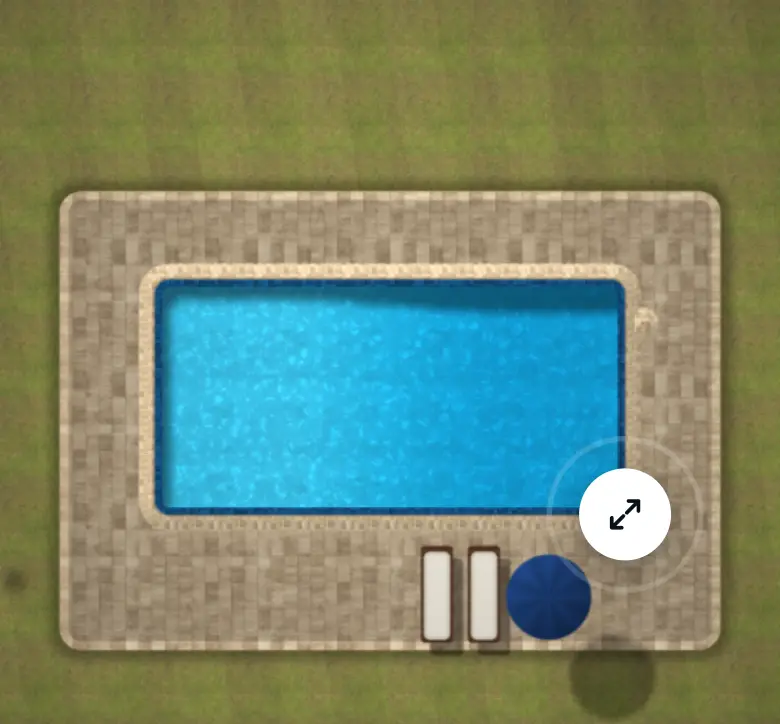
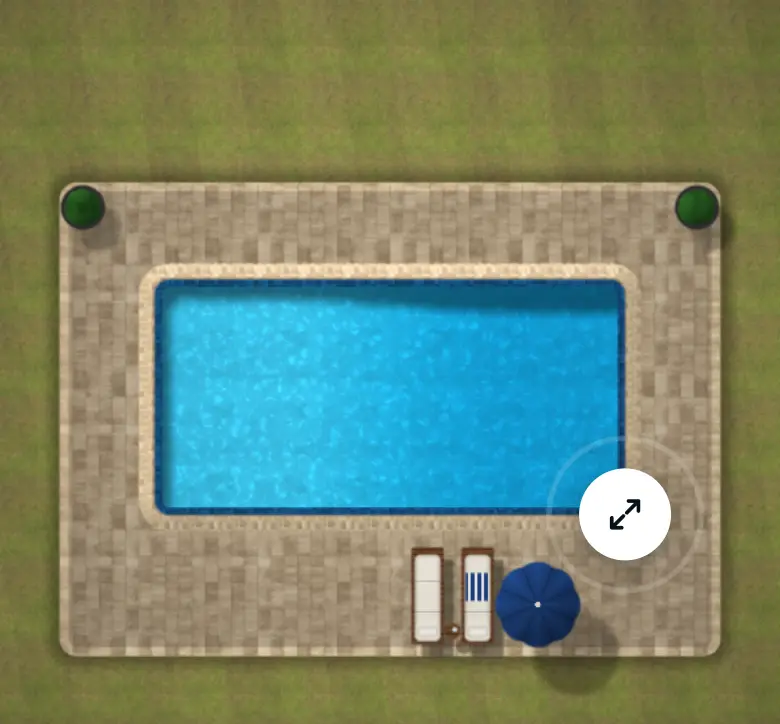
Hero cleanup: deck, spa, furniture; centered dividers

diff --git a/yard.js b/yard.js
@@ -21,19 +21,37 @@ float shapeD(vec2 p, float id){
   if (id < 3.5) return sdBox(p, vec2(L, W) * .5, 1.6);
   return sdBox(p, vec2(L, W) * .5, .45);
 }
-vec2 spaC(){ return vec2(uL * .5 + 1.2, uW * .5 - 3.); }
+vec2 spaPos(float id){ return id > .5 && id < 1.5 ? vec2(uL * .52 + 4.5, uW * .06) : vec2(uL * .5 + 4.5, max(uW * .5 - 3.7, 0.)); }
+vec2 spaC(){ return mix(spaPos(uSA), spaPos(uSB), uM); }
 float poolD(vec2 p){ float d = shapeD(p, uSB); if (uM < .999) d = mix(shapeD(p, uSA), d, uM); return d; }
-float spaD(vec2 p){ return length(p - spaC()) - 3.4 * uSpa + .02; }
+float spaD(vec2 p){ return length(p - spaC()) - 3.2 * uSpa + .02 + (1. - smoothstep(0., .25, uSpa)) * 6.; }
 float allD(vec2 p){ return min(poolD(p), spaD(p)); }
 float wallD(vec2 p){ return sdBox(p - vec2(0., uW * .5 + 2.4), vec2(uL * .38, .85), .1) + (1. - uWall) * 1.2; }
-vec2 fireC(){ return vec2(-uL * .5 - 9.5, -uW * .5 - 4.5); }
-float chairD(vec2 p, out float cush){
-  float d = 1e3; cush = 1e3;
-  for (int i = 0; i < 2; i++) { vec2 q = p - vec2(uL * .1 + float(i) * 3.2, -uW * .5 - 5.4);
-    d = min(d, sdBox(q, vec2(1.1, 3.3), .3)); cush = min(cush, sdBox(q - vec2(0., -.1), vec2(.9, 3.), .45)); }
+vec2 fireC(){ return vec2(-uL * .5 - 11., -uW * .5 - 2.2); }
+float deckD(vec2 p){ float x0 = -uL * .5 - 6.5 - 11.5 * uFire, x1 = uL * .5 + 6.5 + 5.5 * uSpa, y0 = -uW * .5 - 9.6, y1 = uW * .5 + 6.6;
+  return sdBox(p - vec2(x0 + x1, y0 + y1) * .5, vec2(x1 - x0, y1 - y0) * .5, 1.2); }
+mat2 rot(float a){ float c = cos(a), s = sin(a); return mat2(c, -s, s, c); }
+// Adirondack chairs round the fire pit; back = fanned slats, seat, two flat arms
+float adiD(vec2 p, out float slat){
+  float d = 1e3; slat = 0.;
+  for (int i = 0; i < 3; i++) { float a = 1.35 + float(i) * 1.75; vec2 c = fireC() + vec2(cos(a), sin(a)) * 4.;
+    vec2 q = rot(-a + 1.5708) * (p - c);                       // +y points at the fire
+    float seat = sdBox(q, vec2(.95, .85), .15);
+    float arms = min(sdBox(q - vec2(-1.12, .1), vec2(.2, 1.15), .1), sdBox(q - vec2(1.12, .1), vec2(.2, 1.15), .1));
+    float back = max(sdBox(q - vec2(0., -1.45), vec2(1.1, .62), .3), abs(q.x) - (.95 + (-.85 - q.y) * .35));
+    float di = min(min(seat, arms), back); if (di < d) { d = di; slat = step(.5, fract(q.x * 2.6 + .25)) * step(q.y, -.8); } }
   return d;
 }
-vec2 umbC(){ return vec2(uL * .1 + 7.6, -uW * .5 - 5.6); }
+vec2 loungeC(float i){ return vec2(uL * .08 + i * 3.4, -uW * .5 - 5.5); }
+float chairD(vec2 p, out float cush){
+  float d = 1e3; cush = 1e3;
+  for (int i = 0; i < 2; i++) { vec2 q = p - loungeC(float(i));
+    d = min(d, sdBox(q, vec2(1.1, 3.3), .22)); cush = min(cush, sdBox(q - vec2(0., -.15), vec2(.88, 2.95), .4)); }
+  return d;
+}
+vec2 tableC(){ return loungeC(0.) + vec2(1.7, -2.4); }
+vec2 umbC(){ return loungeC(1.) + vec2(4.1, -.6); }
+vec2 potC(float i){ return i < .5 ? vec2(-uL * .5 - 4.9 - 11.5 * uFire, uW * .5 + 4.9) : vec2(uL * .5 + 4.9 + 5.5 * uSpa, uW * .5 + 4.9); }
 float h21(vec2 p){ return fract(sin(dot(p, vec2(127.1, 311.7))) * 43758.5453); }
 float vn(vec2 p){ vec2 i = floor(p), f = fract(p); f = f * f * (3. - 2. * f);
   return mix(mix(h21(i), h21(i + vec2(1, 0)), f.x), mix(h21(i + vec2(0, 1)), h21(i + vec2(1, 1)), f.x), f.y); }
@@ -62,9 +80,8 @@ void main(){
   grass *= .9 + .2 * fbm(p * .06) + .045 * step(.5, fract((p.x + p.y * .15) / 7.));
   vec3 col = grass;
   float d = allD(p);
-  // deck: a paver rectangle round the pool, plus a round fire-pit patio
-  float dDeck = min(sdBox(p - vec2(0., -1.6), vec2(uL * .5 + 6.5, uW * .5 + 7.6), 1.5), d - 5.);
-  dDeck = smin(dDeck, length(p - fireC()) - 6.2 * uFire + .02, 1.6);
+  // deck: one clean paver rectangle that grows to take the spa and the fire pit
+  float dDeck = deckD(p);
   vec3 pave = mix(deckCol(p, floor(uDeck)), deckCol(p, ceil(uDeck)), fract(uDeck));
   pave *= mix(.8, 1., smoothstep(-.7, -.5, dDeck));                    // soldier course edge
   col *= 1. - .3 * smoothstep(1.4, 0., dDeck) * step(0., dDeck);        // lawn contact shadow
@@ -75,8 +92,12 @@ void main(){
   float cush; float sh = 0.;
   sh = max(sh, smoothstep(fw * 3., -fw * 3., wallD(p + TL * 3.4)) * uWall);
   sh = max(sh, smoothstep(.15, -.15, chairD(p + TL * 1.1, cush)) * .8);
-  sh = max(sh, smoothstep(.4, -.4, length(p + TL * 7. - umbC()) - 2.9) * .7);
+  sh = max(sh, smoothstep(.4, -.4, length(p + TL * 4.2 - umbC()) - 2.9) * .55);
   sh = max(sh, smoothstep(.2, -.2, length(p + TL * .8 - fireC()) - 2.35) * uFire * .7);
+  float slat; if (uFire > .01) sh = max(sh, smoothstep(.15, -.15, adiD(p + TL * 1.2, slat)) * .75 * uFire);
+  sh = max(sh, smoothstep(.15, -.15, length(p + TL * 1.3 - tableC()) - .55) * .7);
+  for (int i = 0; i < 2; i++) sh = max(sh, smoothstep(.4, -.4, length(p + TL * 1.8 - potC(float(i))) - 1.5) * .6);
+  if (uSpa > .01) sh = max(sh, smoothstep(.2, -.2, spaD(p + TL * 1.1) - .55) * (1. - smoothstep(-.1, .1, -spaD(p) + .55)) * .5);
   col *= 1. - .48 * sh * day;
   // raised stone wall with three bronze scuppers
   float dw = wallD(p);
@@ -91,10 +112,31 @@ void main(){
     float bed = fr - 1.5 * uFire; vec3 rock = vec3(.09, .08, .075) * (.6 + .8 * vn(fq * 4.));
     ember = smoothstep(1.2, .2, fr) * smoothstep(.45, .8, vn(fq * 3. + vec2(0., -t * 1.6))) * (.35 + .65 * vn(vec2(t * 3., fr)));
     col = mix(col, rock, smoothstep(fw, -fw, bed)); }
-  // loungers
+  // loungers: teak frame with slats, cushion with seams, pillow, one with a striped towel
   float dc = chairD(p, cush);
-  col = mix(col, vec3(.36, .22, .14) * (.85 + .15 * step(.5, fract(p.y * 2.4))), smoothstep(fw, -fw, dc));
-  col = mix(col, vec3(.93, .91, .86) * (1. - .12 * smoothstep(-.4, 0., cush)), smoothstep(fw, -fw, cush));
+  vec3 teak = vec3(.42, .26, .15) * (.78 + .22 * step(.32, fract(p.y * 2.6))) * (.9 + .2 * vn(p * vec2(1., 9.)));
+  col = mix(col, teak, smoothstep(fw, -fw, dc));
+  for (int i = 0; i < 2; i++) { vec2 q = p - loungeC(float(i));
+    float seam = smoothstep(.05, 0., abs(q.y + 1.1)) + smoothstep(.05, 0., abs(q.y - 1.)) ;
+    float raised = smoothstep(-1.2, -2.9, q.y);                               // backrest tilted up to the sun
+    vec3 cu = vec3(.94, .92, .87) * (1. - .14 * smoothstep(-.35, 0., cush)) * (1. - .2 * seam) * (1. + .08 * raised);
+    if (i == 1) { float tw = sdBox(q - vec2(0., .6), vec2(.82, .95), .05); cu = mix(cu, mix(vec3(.12, .27, .5), vec3(.95), step(.5, fract(q.x * 2.2))), smoothstep(fw, -fw, tw)); }
+    col = mix(col, cu, smoothstep(fw, -fw, cush) * step(abs(p.x - loungeC(float(i)).x), 1.5));
+    float pil = sdBox(q - vec2(0., -2.45), vec2(.72, .38), .3);
+    col = mix(col, vec3(.98, .97, .94) * (1. - .15 * smoothstep(-.25, 0., pil)), smoothstep(fw, -fw, pil)); }
+  // side table with a drink
+  float tb = length(p - tableC()) - .55;
+  col = mix(col, teak * 1.1, smoothstep(fw, -fw, tb));
+  col = mix(col, vec3(.85, .93, .95), smoothstep(fw, -fw, length(p - tableC() - vec2(.15, .1)) - .16));
+  // Adirondack chairs round the fire pit
+  if (uFire > .01) { float ad = adiD(p, slat) + (1. - uFire) * 3.;
+    col = mix(col, vec3(.95, .94, .9) * (.86 + .14 * slat), smoothstep(fw, -fw, ad)); }
+  // planters at the back corners
+  for (int i = 0; i < 2; i++) { vec2 q = p - potC(float(i)); float pr = length(q);
+    col = mix(col, vec3(.2, .2, .21) * (.85 + .3 * smoothstep(1.5, 1.2, pr)), smoothstep(fw, -fw, pr - 1.5));
+    float leaf = fbm(q * 1.6 + float(i) * 9.); float fol = pr - 1.25 - .35 * (leaf - .5);
+    vec3 lc = vec3(.13, .3, .1) * (.6 + .9 * leaf) * (1. + .35 * dot(normalize(q + .001), TL) * smoothstep(0., 1.3, pr));
+    col = mix(col, lc, smoothstep(fw, -fw, fol)); }
   // coping (travertine bullnose) round pool and spa
   vec2 g = vec2(dFdx(d), dFdy(d)); vec2 en = length(g) > 0. ? normalize(g) : vec2(0.);
   vec3 cop = texture2D(tP, p / 3.).rgb * vec3(1.13, 1.08, 1.) * (.93 + .14 * dot(en, TL) * smoothstep(.0, .5, d));
@@ -130,7 +172,13 @@ void main(){
   if (uSpa > .01) { float bub = smoothstep(.75, .95, vn((p - spaC()) * 3. + vec2(0., t * 2.))) * inSpa;
     wat = mix(wat, vec3(.85, .97, 1.), bub * .35); }
   col = mix(col, wat, smoothstep(fw, -fw, d));
-  if (uSpa > .01) col = mix(col, cop * .95, smoothstep(fw, -fw, abs(sd) - .32));
+  if (uSpa > .01) { float wallR = abs(sd - .3) - .3;                       // raised spa wall
+    vec2 sq = p - spaC(); vec3 sw = texture2D(tS, p / 2.).rgb * .9 * (.9 + .2 * dot(normalize(sq), TL));
+    col = mix(col, mix(sw, cop, smoothstep(.12, .2, abs(sd - .3))), smoothstep(fw, -fw, wallR) * step(.2, uSpa));
+    // sheet of water spilling from the spa to the pool
+    float spill = step(abs(sq.y), .75) * smoothstep(-3.05, -3.2, sq.x) * step(-4.55, sq.x) * step(.9, uSpa);
+    float st = .6 + .4 * sin(sq.x * 14. + t * 12. + sq.y * 6.);
+    col = mix(col, mix(vec3(.55, .82, .92), vec3(.95, 1., 1.), st), spill * .9); }
   // water falling from the scuppers
   if (uWall > .01) for (int i = 0; i < 3; i++) { float x = (float(i) - 1.) * uL * .22; vec2 q = p - vec2(x, uW * .5 + .2);
     float sm = smoothstep(.32, .12, abs(q.x)) * smoothstep(1.4, 1.1, q.y) * smoothstep(-1.4, -.9, q.y);
@@ -138,9 +186,12 @@ void main(){
     col = mix(col, vec3(.9, .97, 1.), sm * fl * uWall * .85);
     col = mix(col, vec3(.28, .2, .14), smoothstep(fw, -fw, sdBox(p - vec2(x, uW * .5 + 1.55), vec2(.32, .22), .05)) * uWall); }
   // umbrella canopy over the loungers
-  vec2 uq = p - umbC(); float ud = length(uq) - 2.9; float ang = atan(uq.y, uq.x);
-  float pan = abs(fract(ang * 8. / 6.2831) - .5);
-  vec3 umb = vec3(.11, .25, .48) * (.82 + .3 * pan) * (1. + .25 * dot(normalize(uq + .001), TL) * smoothstep(0., 2.9, length(uq)));
+  vec2 uq = p - umbC(); float ur = length(uq), ang = atan(uq.y, uq.x);
+  float pan = abs(fract(ang * 8. / 6.2831) - .5);                         // 0 on a rib, .5 mid-panel
+  float ud = ur - 2.9 + .18 * (1. - pan * 2.) * (1. - pan * 2.);           // canopy sags between ribs
+  vec3 umb = vec3(.11, .25, .48) * (.8 + .35 * pan) * (1. + .28 * dot(normalize(uq + .001), TL) * smoothstep(0., 2.9, ur));
+  umb = mix(umb, umb * .7, smoothstep(.04, 0., pan) * smoothstep(.3, .6, ur));
+  umb = mix(umb, vec3(.92, .9, .85), smoothstep(.22, .17, ur));
   col = mix(col, umb, smoothstep(fw, -fw, ud));
   // light: dusk tint at night, then the glows
   vec3 nightTint = vec3(.13, .17, .3);
@@ -195,13 +246,14 @@ export function mountYard(canvas, opts = {}) {
   }
   function place() {
     const a = opts.area ? opts.area() : { x: 0, y: 0, w: view.w / view.dpr, h: view.h / view.dpr }, pad = opts.pad || [34, 30];
-    const s = held ? view.s : Math.min(a.w / (.6 * cur.L + pad[0]), a.h / (.6 * cur.W + pad[1]));
-    view.s = s; view.cx = a.x + a.w / 2 + (opts.shiftX || 0) * s; view.cy = a.y + a.h / 2 - 1.5 * s;   // css px, from top-left
+    const ext = 5.5 * cur.spa + 11.5 * cur.fire;
+    const s = held ? view.s : Math.min(a.w / (.6 * cur.L + pad[0] + ext * (a.w < 600 ? 1.5 : .8)), a.h / (.6 * cur.W + pad[1]), a.w / (cur.L + 15 + ext));
+    view.s = s; view.cx = a.x + a.w / 2 - (5.5 * cur.spa - 11.5 * cur.fire) / 2 * s; view.cy = a.y + a.h / 2 - 1.5 * s;   // css px, from top-left
     if (opts.grip) opts.grip.style.transform = `translate(${view.cx + cur.L * s / 2}px,${view.cy + cur.W * s / 2}px)`;
     if (opts.labels) {
       const { L, W } = opts.labels, k = s;
       L.style.cssText = `left:${view.cx - cur.L * k / 2}px;top:${view.cy + (cur.W / 2 + 9.6) * k}px;width:${cur.L * k}px`;
-      W.style.cssText = `left:${view.cx + (cur.L / 2 + 7.4) * k}px;top:${view.cy - cur.W * k / 2}px;height:${cur.W * k}px`;
+      W.style.cssText = `left:${view.cx + (cur.L / 2 + 7.6 + 5.5 * cur.spa) * k}px;top:${view.cy - cur.W * k / 2}px;height:${cur.W * k}px`;
     }
   }
   function draw() {

diff --git a/index.html b/index.html
@@ -14,7 +14,7 @@
 <meta property="og:image" content="https://preview.localform.online/pool-doctor-preview/og.jpg">
 <link rel="icon" href="favicon.svg" type="image/svg+xml">
 <link rel="preload" href="fonts/montserrat-latin-900-normal.woff2" as="font" type="font/woff2" crossorigin>
-<link rel="stylesheet" href="styles.css?v=4">
+<link rel="stylesheet" href="styles.css?v=5">
 <script type="application/ld+json">{"@context":"https://schema.org","@type":"HomeAndConstructionBusiness","name":"The Pool Doctor","telephone":"+1-843-737-3165","email":"thepooldoc@yahoo.com","founder":{"@type":"Person","name":"Joseph Penna"},"areaServed":["Charleston, SC","Sullivan's Island, SC","Isle of Palms, SC","James Island, SC","Summerville, SC"],"openingHours":"Mo-Fr 07:00-19:00","sameAs":["https://www.instagram.com/the_pooldoctor/"]}</script>
 </head>
 <body>
@@ -70,7 +70,7 @@
 </section>
 
 <section class="doors" aria-label="What do you need?">
-  <div class="pulse" style="--a:1;--b:3" aria-hidden="true"><div class="pl"><i></i><svg viewBox="0 0 513 77"><use href="#pulseLine"/></svg><i></i></div><div class="pl hi"><i></i><svg viewBox="0 0 513 77"><use href="#pulseLine"/></svg><i></i></div></div>
+  <div class="pulse" style="--a:1;--b:1" aria-hidden="true"><div class="pl"><i></i><svg viewBox="0 0 513 77"><use href="#pulseLine"/></svg><i></i></div><div class="pl hi"><i></i><svg viewBox="0 0 513 77"><use href="#pulseLine"/></svg><i></i></div></div>
   
   <div class="wrap doors-grid">
     <a class="door" href="#design" data-reveal><span class="mono">01</span><svg viewBox="0 0 48 48" aria-hidden="true"><use href="#i-build"/></svg><b>Build a new pool</b><span>Sketch it up top, then Joe walks your yard.</span><i aria-hidden="true">&rarr;</i></a>
@@ -80,7 +80,7 @@
 </section>
 
 <section class="sec light" id="build" aria-labelledby="build-h">
-  <div class="pulse" style="--a:3;--b:1" aria-hidden="true"><div class="pl"><i></i><svg viewBox="0 0 513 77"><use href="#pulseLine"/></svg><i></i></div><div class="pl hi"><i></i><svg viewBox="0 0 513 77"><use href="#pulseLine"/></svg><i></i></div></div>
+  <div class="pulse" style="--a:1;--b:1" aria-hidden="true"><div class="pl"><i></i><svg viewBox="0 0 513 77"><use href="#pulseLine"/></svg><i></i></div><div class="pl hi"><i></i><svg viewBox="0 0 513 77"><use href="#pulseLine"/></svg><i></i></div></div>
   <div class="wrap">
     <header class="sec-head">
       <p class="marker mono" data-reveal><span>01</span>The build</p>
@@ -131,7 +131,7 @@
 </section>
 
 <section class="sec dark" id="repair" aria-labelledby="repair-h">
-  <div class="pulse" style="--a:2;--b:1" aria-hidden="true"><div class="pl"><i></i><svg viewBox="0 0 513 77"><use href="#pulseLine"/></svg><i></i></div><div class="pl hi"><i></i><svg viewBox="0 0 513 77"><use href="#pulseLine"/></svg><i></i></div></div>
+  <div class="pulse" style="--a:1;--b:1" aria-hidden="true"><div class="pl"><i></i><svg viewBox="0 0 513 77"><use href="#pulseLine"/></svg><i></i></div><div class="pl hi"><i></i><svg viewBox="0 0 513 77"><use href="#pulseLine"/></svg><i></i></div></div>
   <div class="wrap">
     <header class="sec-head">
       <p class="marker mono" data-reveal><span>03</span>Something's wrong?</p>
@@ -156,7 +156,7 @@
 </section>
 
 <section class="builders" id="builders" aria-labelledby="builders-h">
-  <div class="pulse" style="--a:1;--b:2" aria-hidden="true"><div class="pl"><i></i><svg viewBox="0 0 513 77"><use href="#pulseLine"/></svg><i></i></div><div class="pl hi"><i></i><svg viewBox="0 0 513 77"><use href="#pulseLine"/></svg><i></i></div></div>
+  <div class="pulse" style="--a:1;--b:1" aria-hidden="true"><div class="pl"><i></i><svg viewBox="0 0 513 77"><use href="#pulseLine"/></svg><i></i></div><div class="pl hi"><i></i><svg viewBox="0 0 513 77"><use href="#pulseLine"/></svg><i></i></div></div>
   <div class="wrap builders-in">
     <div>
       <p class="marker mono" data-reveal><span>04</span>For builders &amp; contractors</p>
@@ -170,7 +170,7 @@
 </section>
 
 <section class="sec light" id="reviews" aria-labelledby="rev-h">
-  <div class="pulse" style="--a:3;--b:1" aria-hidden="true"><div class="pl"><i></i><svg viewBox="0 0 513 77"><use href="#pulseLine"/></svg><i></i></div><div class="pl hi"><i></i><svg viewBox="0 0 513 77"><use href="#pulseLine"/></svg><i></i></div></div>
+  <div class="pulse" style="--a:1;--b:1" aria-hidden="true"><div class="pl"><i></i><svg viewBox="0 0 513 77"><use href="#pulseLine"/></svg><i></i></div><div class="pl hi"><i></i><svg viewBox="0 0 513 77"><use href="#pulseLine"/></svg><i></i></div></div>
   <div class="wrap">
     <header class="sec-head row">
       <div><p class="marker mono" data-reveal><span>05</span>Reviews</p><h2 id="rev-h" data-reveal>What Charleston says about Joe.</h2></div>
@@ -188,7 +188,7 @@
 </section>
 
 <section class="sec dark joe" aria-labelledby="joe-h">
-  <div class="pulse" style="--a:1;--b:3" aria-hidden="true"><div class="pl"><i></i><svg viewBox="0 0 513 77"><use href="#pulseLine"/></svg><i></i></div><div class="pl hi"><i></i><svg viewBox="0 0 513 77"><use href="#pulseLine"/></svg><i></i></div></div>
+  <div class="pulse" style="--a:1;--b:1" aria-hidden="true"><div class="pl"><i></i><svg viewBox="0 0 513 77"><use href="#pulseLine"/></svg><i></i></div><div class="pl hi"><i></i><svg viewBox="0 0 513 77"><use href="#pulseLine"/></svg><i></i></div></div>
   <div class="wrap joe-in">
     <figure class="joe-img" data-reveal><img src="img/j-marsh-lg.webp" srcset="img/j-marsh-sm.webp 600w, img/j-marsh-lg.webp 1000w" sizes="(max-width: 860px) 100vw, 44vw" alt="A boardwalk across the salt marsh, Joe's view from a job" loading="lazy" width="720" height="720"><figcaption class="mono">&ldquo;My corner office&rdquo; &middot; from Joe's Instagram</figcaption></figure>
     <div>
@@ -206,7 +206,7 @@
 </section>
 
 <section class="sec light" id="area" aria-labelledby="area-h">
-  <div class="pulse" style="--a:2;--b:1" aria-hidden="true"><div class="pl"><i></i><svg viewBox="0 0 513 77"><use href="#pulseLine"/></svg><i></i></div><div class="pl hi"><i></i><svg viewBox="0 0 513 77"><use href="#pulseLine"/></svg><i></i></div></div>
+  <div class="pulse" style="--a:1;--b:1" aria-hidden="true"><div class="pl"><i></i><svg viewBox="0 0 513 77"><use href="#pulseLine"/></svg><i></i></div><div class="pl hi"><i></i><svg viewBox="0 0 513 77"><use href="#pulseLine"/></svg><i></i></div></div>
   <div class="wrap area-in">
     <div>
       <p class="marker mono" data-reveal><span>07</span>Where &amp; when</p>
@@ -270,7 +270,7 @@
 </section>
 
 <section class="sec light" id="faq" aria-labelledby="faq-h">
-  <div class="pulse" style="--a:1;--b:3" aria-hidden="true"><div class="pl"><i></i><svg viewBox="0 0 513 77"><use href="#pulseLine"/></svg><i></i></div><div class="pl hi"><i></i><svg viewBox="0 0 513 77"><use href="#pulseLine"/></svg><i></i></div></div>
+  <div class="pulse" style="--a:1;--b:1" aria-hidden="true"><div class="pl"><i></i><svg viewBox="0 0 513 77"><use href="#pulseLine"/></svg><i></i></div><div class="pl hi"><i></i><svg viewBox="0 0 513 77"><use href="#pulseLine"/></svg><i></i></div></div>
   <div class="wrap faq-in">
     <h2 id="faq-h" data-reveal>Questions</h2>
     <div class="faq">
@@ -305,7 +305,7 @@
   <symbol id="i-reno" viewBox="0 0 48 48"><g fill="none" stroke="currentColor" stroke-width="2.2" stroke-linejoin="round" stroke-linecap="round"><path d="M8 40h32M10 40V22h28v18"/><path d="M14 22v-6h20v6M18 16v-6h12v6" opacity=".6"/><path d="M15 31h18"/></g></symbol>
   <symbol id="i-fix" viewBox="0 0 48 48"><g fill="none" stroke="currentColor" stroke-width="2.2" stroke-linejoin="round" stroke-linecap="round"><circle cx="18" cy="26" r="10"/><path d="M28 26h12v8H28M14 26h8M18 22v8"/><path d="M18 16v-6M14 10h8" opacity=".6"/></g></symbol>
 </svg>
-<script type="module" src="app.js?v=6"></script>
+<script type="module" src="app.js?v=7"></script>
 
 
 <script>/* lf-open: counts a tagged preview link being opened (?r=). No cookies. Local Form */(function(){try{var r=new URLSearchParams(location.search).get('r');if(!r||!navigator.sendBeacon||sessionStorage.getItem('lf-open'))return;sessionStorage.setItem('lf-open','1');navigator.sendBeacon('https://localform.online/api/open',JSON.stringify({r:r,s:location.pathname.split('/')[1]||location.hostname,d:matchMedia('(pointer:coarse)').matches?'phone':'desktop'}))}catch(e){}})();</script>

diff --git a/styles.css b/styles.css
@@ -388,7 +388,9 @@ input[type=file]::file-selector-button{min-height:44px;padding:0 16px;border-rad
 
 /* heartbeat-to-wave dividers (the card's own line), with a monitor sweep running along them */
 .sec,.builders,.doors{position:relative}
-.pulse{position:absolute;left:0;right:0;top:0;height:54px;transform:translateY(-50%);z-index:4;pointer-events:none}
+.pulse{position:absolute;left:0;right:0;top:clamp(36px,4.5vw,64px);height:54px;transform:translateY(-50%);z-index:4;pointer-events:none}
+.builders>.pulse{top:clamp(30px,3.5vw,48px)}
+.doors{padding-top:clamp(72px,8vw,112px)!important}.doors>.pulse{top:clamp(36px,4vw,56px)}
 .pl{position:absolute;inset:0;display:flex;align-items:center;color:rgba(93,182,230,.42)}
 .light .pl,.light+.pulse .pl{color:rgba(29,93,181,.3)}
 .pl i{flex:var(--a);height:2.2px;background:currentColor;transform:translateY(5.4px)}
@@ -422,7 +424,7 @@ input[type=file]::file-selector-button{min-height:44px;padding:0 16px;border-rad
   .part-line{font-size:14px;margin:10px 0 16px;min-height:0}
   .sym{grid-template-columns:1fr}
   .sym button{min-height:48px}
-  .pulse{height:40px}.pl i{height:1.8px;transform:translateY(4px)}
+  .pulse{height:40px;top:36px}.builders>.pulse{top:30px}.doors>.pulse{top:36px}.pl i{height:1.8px;transform:translateY(4px)}
   .look{gap:10px}
   .chips.sw button{min-height:54px;font-size:11px}
 }
@@ -434,5 +436,4 @@ input[type=file]::file-selector-button{min-height:44px;padding:0 16px;border-rad
   .chips.tiles button{min-height:48px;gap:3px}.chips.sw button{min-height:46px;gap:4px}.chips.sw button i{width:20px;height:20px}
   .actions .btn{min-height:48px}
 }
-.doors>.pulse{transform:translateY(-6px)}
 @media(max-width:860px){.dim-w{display:none}}

diff --git a/app.js b/app.js
@@ -65,7 +65,7 @@ grip.addEventListener('keydown', e => {
   if (!dl && !dw) return; e.preventDefault(); lenI.value = clampI(lenI, +lenI.value + dl); widI.value = clampI(widI, +widI.value + dw); updatePlan();
 });
 $('#heroSend').addEventListener('click', () => { readPlan(); openRequest('New pool', { kind: 'plan', text: planText() }); });
-import('./yard.js?v=2').then(({ mountYard }) => {
+import('./yard.js?v=3').then(({ mountYard }) => {
   const copy = $('.hero-copy');
   yard = mountYard(cv, { dpr: phone() ? 1.5 : 1.25, reduced, still: q.has('still'), labels: { L: $('#dimL'), W: $('#dimW') }, grip: $('#grip'),
     pad: phone() ? [18, 30] : [34, 30],
